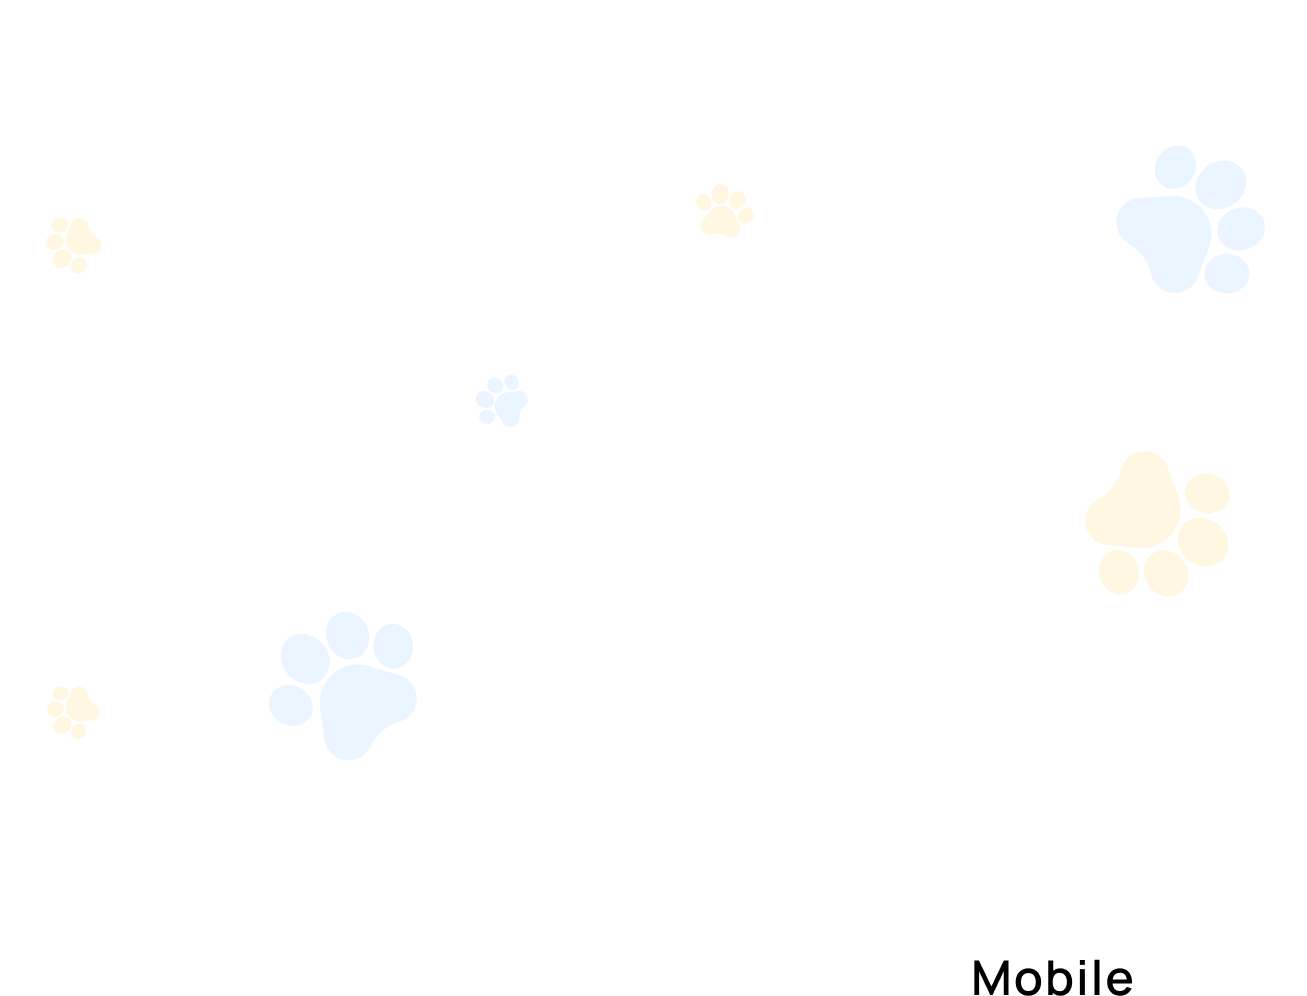
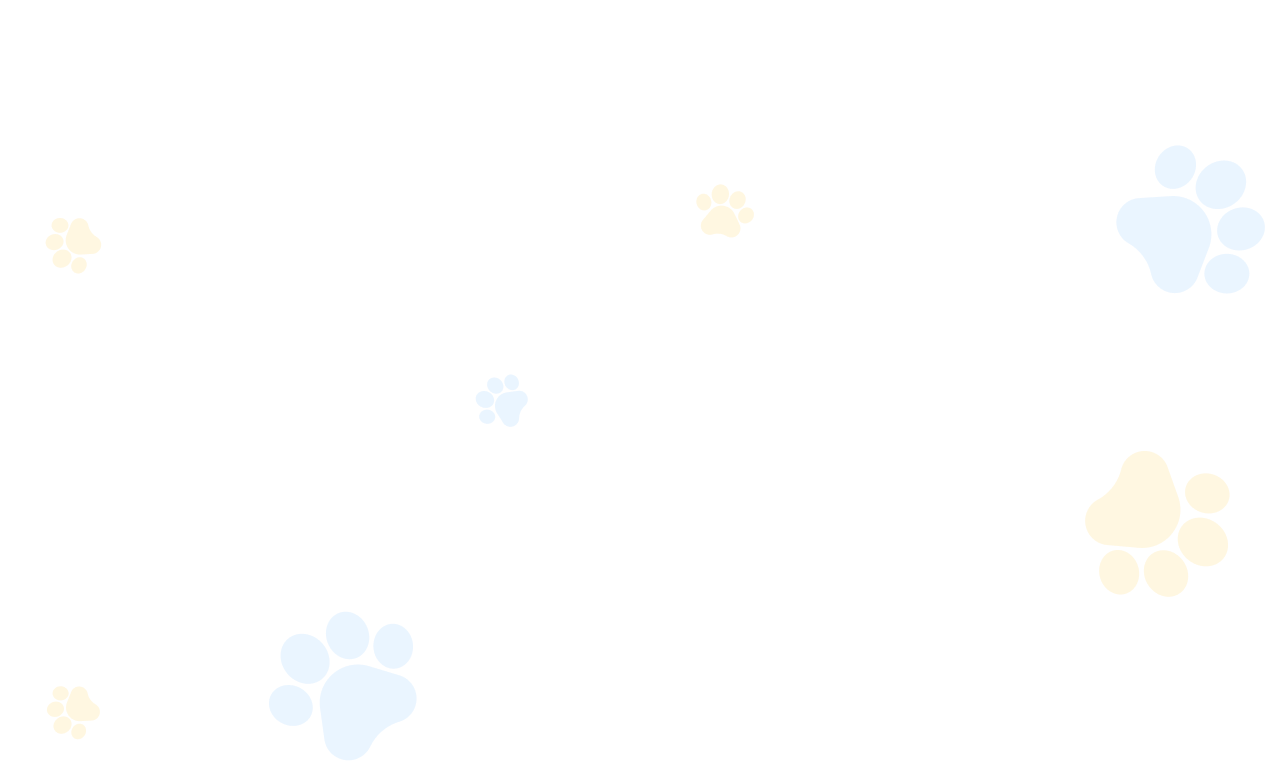
main page

diff --git a/src/components/Hero/Hero.styled.jsx b/src/components/Hero/Hero.styled.jsx
@@ -1,1 +1,130 @@
-// import styled from 'styled-components';
+import styled from 'styled-components';
+// import  { theme } from '../../theme/theme';
+import sm_pets1x from '../../images/pets-hero/Pets_sm1x.png';
+import sm_pets2x from '../../images/pets-hero/Pets_sm2x.png';
+import md_pets1x from '../../images/pets-hero/Pets-md1x.png';
+import md_pets2x from '../../images/pets-hero/Pets-md2x.png';
+import lg_pets1x from '../../images/pets-hero/Pets_lg1x.png';
+import lg_pets2x from '../../images/pets-hero/Pets_lg2x.png';
+import sm_bg_sm1x from '../../images/bg/bg-sm@1x-1.png';
+import sm_bg_sm2x from '../../images/bg/bg-sm@2x-2.png';
+import md_bg_md1x from '../../images/bg/bg-md@1x-2.png';
+import md_bg_md2x from '../../images/bg/bg-md@2x-1.png';
+import lg_bg_lg1x from '../../images/bg/bg-lg@1x.png';
+import lg_bg_lg2x from '../../images/bg/bg-lg@2x.png';
+
+export const HeroSection = styled.section`
+  position: absolute;
+  top: 68px;
+  right: 0;
+  bottom: 0;
+  left: 0;
+
+
+  width: 100vw;
+  min-height: calc(100vh - 168px);
+  padding: 48px 20px 60px 20px;
+
+  background-image: url(${sm_bg_sm1x});
+  background-position: 0% 0%;
+  @media screen and (min-device-pixel-ratio: 2),
+    (min-resolution: 192dpi),
+    (min-resolution: 2dppx) {
+    background-image: url(${sm_bg_sm2x});
+  }
+
+  h1 {
+    margin: 0;
+
+    font-family: 'Manrope', sans-serif;
+    font-size: 32px;
+    line-height: 44px;
+  }
+  div {
+    position: absolute;
+    top: 156px;
+    right: 0;
+    bottom: 0;
+    left: 0;
+    min-height: 384px;
+
+    background-image: url(${sm_pets1x});
+    background-position: 58% -54px;
+    background-size: 475px 457px;
+    background-repeat: no-repeat;
+    @media screen and (min-device-pixel-ratio: 2),
+      (min-resolution: 192dpi),
+      (min-resolution: 2dppx) {
+      background-image: url(${sm_pets2x});
+    }
+  }
+
+  @media (min-width: 767px) {
+    min-height: calc(100vh - 148px);
+    margin-top: 88px;
+    padding: 0px 32px 0px 32px;
+
+    background-image: url(${md_bg_md1x});
+    @media screen and (min-device-pixel-ratio: 2),
+      (min-resolution: 192dpi),
+      (min-resolution: 2dppx) {
+      background-image: url(${md_bg_md2x});
+    }
+
+    h1 {
+      font-size: 68px;
+      line-height: calc(100 / 68);
+    }
+    div {
+      top: 225px;
+      min-height: 684px;
+
+      background-image: url(${md_pets1x});
+      background-position: 46% -112px;
+      background-size: 986px 982px;
+      @media screen and (min-device-pixel-ratio: 2),
+        (min-resolution: 192dpi),
+        (min-resolution: 2dppx) {
+        background-image: url(${md_pets2x});
+      }
+    }
+  }
+
+  @media (min-width: 1279px) {
+    max-width: 1280px;
+    margin-top: 0px;
+    padding: 0px 0px 0px 16px;
+    margin-right: auto;
+    margin-left: auto;
+
+    background-image: url(${lg_bg_lg1x});
+    @media screen and (min-device-pixel-ratio: 2),
+      (min-resolution: 192dpi),
+      (min-resolution: 2dppx) {
+      background-image: url(${lg_bg_lg2x});
+    }
+
+    h1 {
+      width: 525px;
+      margin-top: 188px;
+
+      font-size: 68px;
+      line-height: 130%;
+    }
+    div {
+      top: 48px;
+      left: 363px;
+      min-height: 684px;
+
+      background-image: url(${lg_pets1x});
+      background-position: 50% -104px;
+      background-size: 954px 975px;
+    
+      @media screen and (min-device-pixel-ratio: 2),
+        (min-resolution: 192dpi),
+        (min-resolution: 2dppx) {
+        background-image: url(${lg_pets2x});
+      }
+    }
+  }
+`;

diff --git a/src/pages/MainPage.jsx b/src/pages/MainPage.jsx
@@ -1,9 +1,20 @@
-const MainPage = () => {
+import { Hero } from '../components/Hero/Hero';
+import { Section } from 'components/Section/Section';
+import { Container } from 'components/Container/Container';
+
+export const MainPage = () => {
   return (
-    <>
-      <h2>Main page</h2>
-    </>
+    <Section 
+      padTopSm={'10px'}
+      padBottomLg={'150px'}
+      padTopLg={'300px'}
+      padTopMd={'200px'}
+    >
+      <Container>
+    <Hero />
+    </Container>
+    </Section>
   );
-};
+  };
 
 export default MainPage;

diff --git a/src/components/Hero/Hero.jsx b/src/components/Hero/Hero.jsx
@@ -1,3 +1,14 @@
+// import { StyledContainer} from '../Container/Container.styled' ;
+import { HeroSection } from '../Hero/Hero.styled';
+// import { Header } from 'components/Header/Header';
+
 export const Hero = () => {
-  return;
+  return (
+    <>
+    <HeroSection>
+              <h1>Take good care of your small pets</h1>
+       <div></div>
+    </HeroSection>
+        </>
+  );
 };
